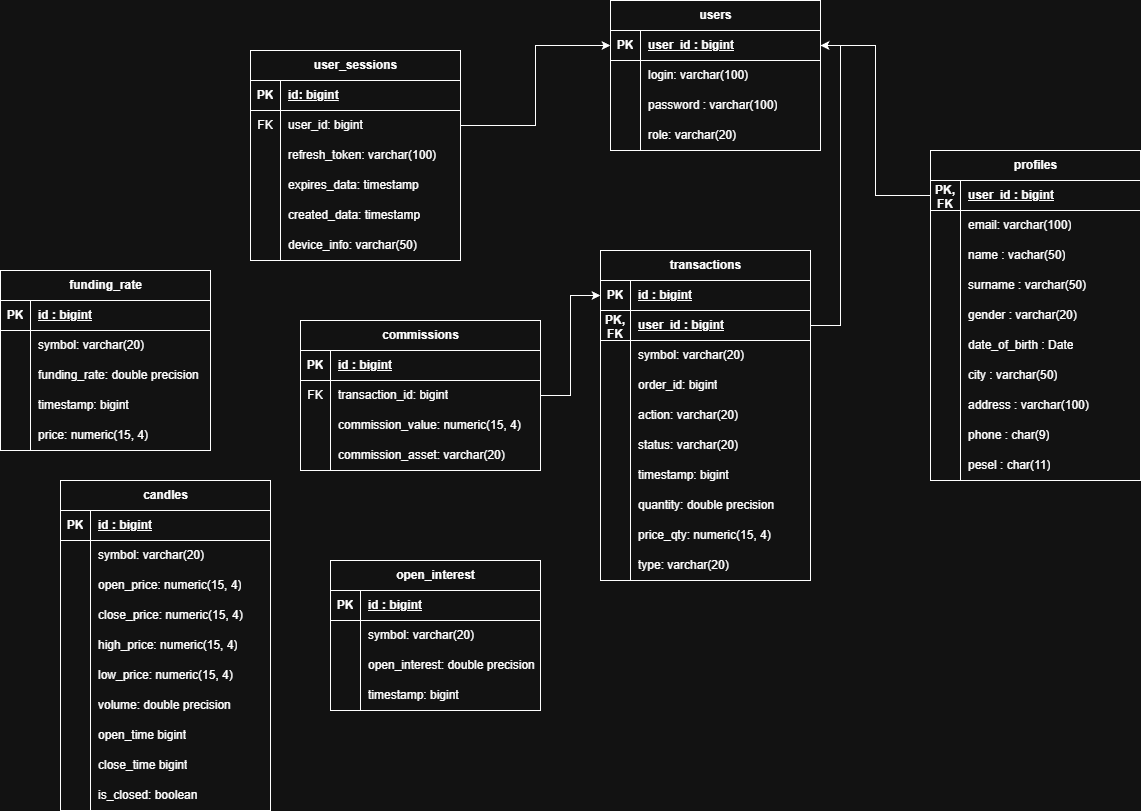
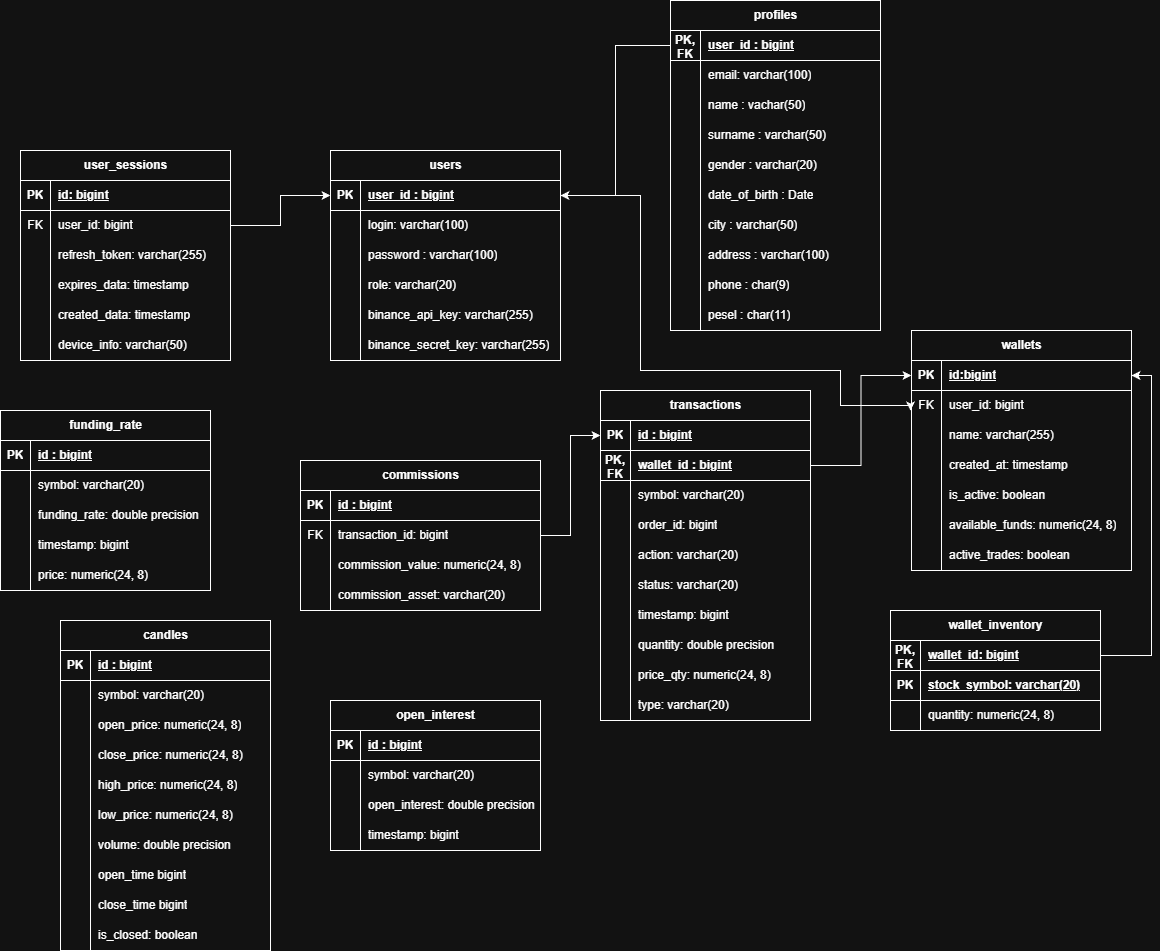
docs and readme update

diff --git a/README.md b/README.md
@@ -54,8 +54,13 @@ There is one central PostgreSQL database for the whole system, initialized and m
 
 ## Initialize environment and run application (for developers)
 
-1. Generate the Bincance API keys to connect to the market and save it in trading-bot/.env
-2. Save database credentials into your .env file.
+1. Save database credentials into your backend/.env and trading-bot/.env files.
+2. Run Redis service using Docker: 
+
+```
+docker compose up -d redis
+```
+
 3. In order to run the trading-bot microservice:
 
 ```